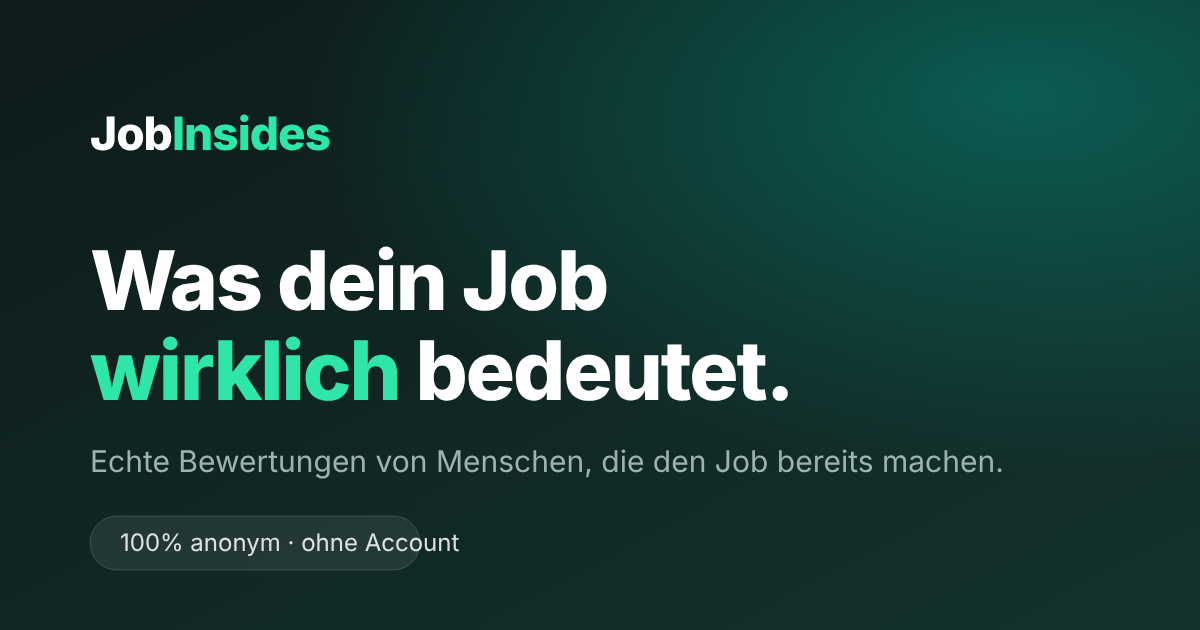
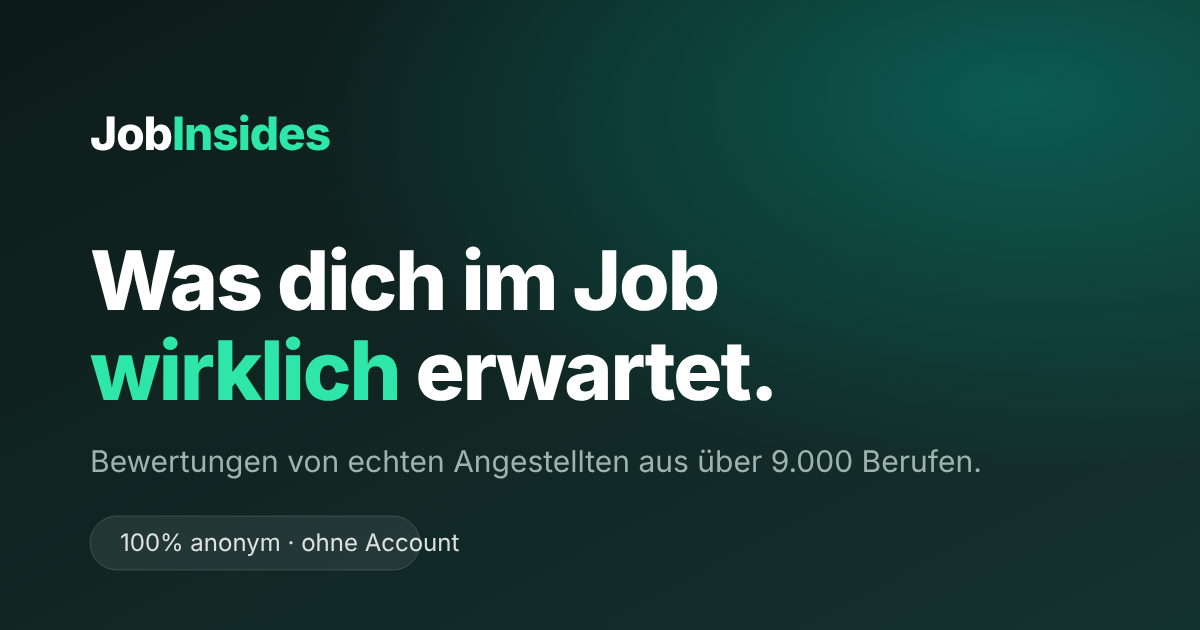
Startseite: Texte neu gefasst, Vorschaubild angepasst
Neue Hauptzeile "Was dich im Job wirklich erwartet" statt "Was dein Job wirklich bedeutet".
Texte durchgehend direkter formuliert; Herkunft der Bewertungen (echte Angestellte) deutlicher benannt.
Meta-Angaben, Vorschaubild und SEITEN_META entsprechend angeglichen.

Claude-Session: https://claude.ai/code/session_018f971TLSDixHMZUGdi4qcD

Changed region(s): [[0.2775, 0.3921, 0.6167, 0.5127], [0.3392, 0.5429, 0.6783, 0.6333], [0.0617, 0.6937, 0.8325, 0.754]]

diff --git a/index.html b/index.html
@@ -3,7 +3,7 @@
 <head>
 <meta charset="UTF-8">
 <meta name="viewport" content="width=device-width, initial-scale=1.0">
-<title>JobInsides – Echte Bewertungen. Echter Einblick.</title>
+<title>JobInsides – Was dich im Job wirklich erwartet</title>
 
 <!-- Symbol für Browser-Tab und Startbildschirm -->
 <link rel="icon" type="image/svg+xml" href="/favicon.svg">
@@ -13,7 +13,7 @@
 <!-- Beschreibung für Suchmaschinen -->
 <link rel="canonical" href="https://jobinsides.de/">
 <meta name="robots" content="index,follow">
-<meta name="description" content="Andere bewerten Arbeitgeber – wir bewerten die Arbeit. Ehrlicher Einblick in über 9.000 Berufe, von Menschen, die den Job wirklich machen. Anonym und ohne Anmeldung.">
+<meta name="description" content="Echte Bewertungen von echten Angestellten: Alltag, Gehalt und Anforderungen in über 9.000 Berufen. Andere bewerten Arbeitgeber – wir bewerten die Arbeit. Anonym und ohne Anmeldung.">
 
 <!-- Vorschau beim Teilen (WhatsApp, LinkedIn, Slack …) -->
 <meta property="og:type" content="website">
@@ -21,16 +21,16 @@
 <meta property="og:locale" content="de_DE">
 <meta property="og:url" content="https://jobinsides.de/">
 <meta property="og:title" content="JobInsides – Wir bewerten die Arbeit, nicht den Arbeitgeber">
-<meta property="og:description" content="Ehrlicher Einblick in über 9.000 Berufe – von Menschen, die den Job wirklich machen. Keine geschönten Stellenbeschreibungen.">
+<meta property="og:description" content="Bewertungen von echten Angestellten aus über 9.000 Berufen. Kein Hochglanz, keine Werbung – nur der Job, so wie er ist.">
 <meta property="og:image" content="https://jobinsides.de/og-bild.png">
 <meta property="og:image:type" content="image/png">
-<meta property="og:image:alt" content="JobInsides – Was dein Job wirklich bedeutet.">
+<meta property="og:image:alt" content="JobInsides – Was dich im Job wirklich erwartet.">
 <meta property="og:image:width" content="1200">
 <meta property="og:image:height" content="630">
 
 <meta name="twitter:card" content="summary_large_image">
 <meta name="twitter:title" content="JobInsides – Wir bewerten die Arbeit, nicht den Arbeitgeber">
-<meta name="twitter:description" content="Ehrlicher Einblick in über 9.000 Berufe, von Menschen, die den Job wirklich machen.">
+<meta name="twitter:description" content="Bewertungen von echten Angestellten aus über 9.000 Berufen. Kein Hochglanz, keine Werbung.">
 <meta name="twitter:image" content="https://jobinsides.de/og-bild.png">
 <link rel="preconnect" href="https://fonts.googleapis.com">
 <link rel="preconnect" href="https://fonts.gstatic.com" crossorigin>
@@ -57,8 +57,8 @@
 <div class="page active" id="page-home">
   <section class="hero">
     <div class="hero-badge">🔒 <strong>100% anonym</strong> · Kein Account · Keine E-Mail</div>
-    <h1>Was dein Job<br><em>wirklich</em> bedeutet.</h1>
-    <p class="hero-sub">Stellenanzeigen werben, Vorstellungsgespräche verkaufen. Hier kommen die zu Wort, die den Beruf jeden Tag ausüben.</p>
+    <h1>Was dich im Job<br><em>wirklich</em> erwartet.</h1>
+    <p class="hero-sub">Bewertungen von echten Angestellten. Kein Hochglanz, keine Werbung – nur der Job, so wie er ist.</p>
 
     <div class="search-wrap">
       <input class="search-input" type="text" placeholder="Beruf suchen, z.B. Elektriker, Pflegefachkraft…"
@@ -70,7 +70,7 @@
     <div class="hero-beleg">
       <span><strong id="stat-berufe">–</strong> Berufe</span>
       <span class="hero-beleg-trenner"></span>
-      <span>Anonym und ohne Anmeldung</span>
+      <span>Bewertet von Menschen, die sie ausüben</span>
     </div>
   </section>
 
@@ -79,8 +79,9 @@
     <p class="abschnitt-label">Warum die Bewertungen hier anders sind</p>
     <h2 class="abschnitt-titel">Andere bewerten Arbeitgeber.<br><em>Wir bewerten die Arbeit.</em></h2>
     <p class="abschnitt-text">
-      Auf dem Weg in einen Beruf verfolgt fast jeder ein eigenes Interesse. Nur eine Gruppe nicht:
-      die Menschen, die den Beruf längst ausüben. Sie haben nichts mehr zu verkaufen.
+      <strong class="abschnitt-lead">Jeder will dir was verkaufen. Außer denen, die den Job schon machen.</strong>
+      Die Anzeige will Bewerber. Das Gespräch will dich überzeugen. Das Firmenprofil will gut aussehen.
+      Nur deine künftigen Kollegen haben nichts davon, wenn du dich falsch entscheidest.
     </p>
 
     <div class="kette-lauf">
@@ -102,7 +103,7 @@
       <div class="kette-station kette-wir">
         <div class="kette-rolle">JobInsides</div>
         <div class="kette-tut">sagt, wie es ist</div>
-        <p class="kette-zitat">Hier wird keine Firma bewertet, sondern der Beruf. Niemand muss ein Profil schützen, und niemand hat etwas zu verkaufen.</p>
+        <p class="kette-zitat">Hier bewertet niemand eine Firma, sondern den Beruf. Kein Profil, das jemand schützen muss. Keine Stelle, die jemand besetzen will.</p>
       </div>
     </div>
   </section>
@@ -113,20 +114,20 @@
     <h2 class="abschnitt-titel">Die Fragen, die dir sonst niemand beantwortet</h2>
     <div class="findest-karten">
       <div class="findest-karte">
-        <div class="findest-titel">Erwartung gegen Wirklichkeit</div>
-        <p>Was haben andere von diesem Beruf erwartet, und was davon ist geblieben? Genau diese Lücke beschreiben die Berichte hier.</p>
+        <div class="findest-titel">Erwartung gegen Realität</div>
+        <p>Was andere sich vorgestellt haben – und was davon übrig blieb. Genau diese Lücke beschreiben die Berichte hier.</p>
       </div>
       <div class="findest-karte">
-        <div class="findest-titel">Echte Gehälter</div>
-        <p>Nicht die Spanne aus der Stellenanzeige, sondern die Beträge, die Menschen in diesem Beruf tatsächlich bekommen – freiwillig und anonym angegeben.</p>
+        <div class="findest-titel">Gehälter, die stimmen</div>
+        <p>Keine Spanne aus der Anzeige. Was Leute in dem Job am Monatsende wirklich bekommen, von ihnen selbst eingetragen.</p>
       </div>
       <div class="findest-karte">
-        <div class="findest-titel">Was der Beruf im Alltag verlangt</div>
-        <p>Schichtdienst, Zeitdruck, Arbeit auf sich allein gestellt: die Dinge, die in keiner Anzeige stehen, den Alltag aber bestimmen.</p>
+        <div class="findest-titel">Was der Alltag von dir will</div>
+        <p>Schichten, Zeitdruck, stundenlang allein im Auto. Steht in keiner Anzeige, entscheidet aber, ob du den Job magst.</p>
       </div>
       <div class="findest-karte">
-        <div class="findest-titel">Passende Stellen – danach</div>
-        <p>Zuerst verstehst du den Beruf. Passt er zu dir, findest du hier auch gleich die offenen Stellen dazu.</p>
+        <div class="findest-titel">Und danach: offene Stellen</div>
+        <p>Erst verstehst du den Beruf. Passt er, findest du die Ausschreibungen gleich daneben.</p>
       </div>
     </div>
   </section>
@@ -136,10 +137,10 @@
     <p class="abschnitt-label">Für wen das gedacht ist</p>
     <h2 class="abschnitt-titel">Für alle, die eine Entscheidung vor sich haben</h2>
     <div class="fuerwen-liste">
-      <div class="fuerwen-eintrag"><strong>Schulabgänger</strong>, die zwischen mehreren Berufen schwanken und nirgends erfahren, wie der Alltag darin aussieht.</div>
-      <div class="fuerwen-eintrag"><strong>Studierende</strong>, die sich fragen, ob ihr Fach am Ende zu dem Beruf führt, den sie sich vorstellen.</div>
-      <div class="fuerwen-eintrag"><strong>Berufswechsler</strong>, die vor dem zweiten Anlauf genauer wissen wollen, worauf sie sich einlassen.</div>
-      <div class="fuerwen-eintrag"><strong>Umschüler und Wiedereinsteiger</strong>, die viel Zeit in eine neue Richtung stecken und vorher Klarheit darüber brauchen, ob sie stimmt.</div>
+      <div class="fuerwen-eintrag"><strong>Schulabgänger</strong>, die zwischen drei Berufen hängen und nirgends erfahren, wie der Alltag darin aussieht.</div>
+      <div class="fuerwen-eintrag"><strong>Studierende</strong>, die sich fragen, wo ihr Fach am Ende eigentlich hinführt.</div>
+      <div class="fuerwen-eintrag"><strong>Berufswechsler</strong>, die vor dem zweiten Anlauf wissen wollen, worauf sie sich einlassen.</div>
+      <div class="fuerwen-eintrag"><strong>Umschüler und Wiedereinsteiger</strong>, die Monate in eine neue Richtung stecken und vorher sicher sein wollen, dass sie stimmt.</div>
     </div>
   </section>
 
@@ -151,21 +152,21 @@
         <span class="ablauf-nr">1</span>
         <div>
           <div class="ablauf-titel">Beruf suchen</div>
-          <p>Über 9.000 Berufe, von der Ausbildung bis zum Studium. Die Suche versteht auch die Bezeichnungen, die im Alltag benutzt werden.</p>
+          <p>Über 9.000 Berufe, von der Ausbildung bis zum Studium. Tipp einfach ein, wie du den Job nennst – die Suche versteht auch Umgangssprache.</p>
         </div>
       </div>
       <div class="ablauf-schritt">
         <span class="ablauf-nr">2</span>
         <div>
           <div class="ablauf-titel">Nachlesen, wie es ist</div>
-          <p>Erfahrungsberichte, Gehälter, Anforderungen und Diskussionen – alles von Menschen, die den Beruf aus eigener Anschauung kennen.</p>
+          <p>Erfahrungsberichte, Gehälter, Anforderungen, Diskussionen. Alles von Angestellten, die den Beruf selbst ausüben oder ausgeübt haben.</p>
         </div>
       </div>
       <div class="ablauf-schritt">
         <span class="ablauf-nr">3</span>
         <div>
           <div class="ablauf-titel">Entscheiden – und Stellen finden</div>
-          <p>Passt der Beruf, findest du hier aktuelle Stellenangebote. Passt er nicht, hast du dir womöglich Jahre erspart.</p>
+          <p>Passt der Beruf, liegen die offenen Stellen schon daneben. Passt er nicht, hast du dir gerade Jahre erspart.</p>
         </div>
       </div>
     </div>
@@ -181,8 +182,8 @@
   <!-- ══ AUFRUF ══ -->
   <section class="aufruf">
     <div class="aufruf-box">
-      <h2 class="aufruf-titel">Du übst einen Beruf aus?<br>Dann weißt du etwas, das anderen gerade fehlt.</h2>
-      <p class="aufruf-text">Fünf Minuten, anonym, ohne Anmeldung. Deine Erfahrung bewahrt jemanden vor dem falschen Weg – oder bestätigt ihm den richtigen.</p>
+      <h2 class="aufruf-titel">Du machst den Job?<br>Dann weiß niemand besser, wie er ist.</h2>
+      <p class="aufruf-text">Fünf Minuten, anonym, ohne Anmeldung. Irgendwo sitzt gerade jemand, der überlegt, ob er deinen Beruf lernen soll. Du kannst ihm die Antwort geben, die du damals gern gehabt hättest.</p>
       <button class="btn-submit" style="max-width:340px" onclick="showPage('bewerten')">Beruf bewerten</button>
       <span class="anon-note">Ohne E-Mail, ohne Konto, ohne Namensnennung.</span>
     </div>

diff --git a/app.js b/app.js
@@ -918,8 +918,8 @@ function setzeMeta({ titel, beschreibung, pfad, index = true, jsonld = null }) {
 
 const SEITEN_META = {
   home: {
-    titel: 'JobInsides – Wir bewerten die Arbeit, nicht den Arbeitgeber',
-    beschreibung: 'Andere bewerten Arbeitgeber – wir bewerten die Arbeit. Ehrlicher Einblick in über 9.000 Berufe, von Menschen, die den Job wirklich machen. Anonym und ohne Anmeldung.'
+    titel: 'JobInsides – Was dich im Job wirklich erwartet',
+    beschreibung: 'Echte Bewertungen von echten Angestellten: Alltag, Gehalt und Anforderungen in über 9.000 Berufen. Andere bewerten Arbeitgeber – wir bewerten die Arbeit. Anonym und ohne Anmeldung.'
   },
   bewerten: {
     titel: 'Beruf ehrlich bewerten – anonym | JobInsides',

diff --git a/styles.css b/styles.css
@@ -156,6 +156,14 @@ h1 em { color: var(--accent); font-style: normal; }
 }
 .abschnitt-titel em { color: var(--accent); font-style: normal; }
 .abschnitt-text { max-width: 640px; color: var(--muted); font-size: 1.08rem; line-height: 1.65; }
+/* Fettgesetzter Einstieg in einen Absatz – trägt die Kernaussage */
+.abschnitt-lead {
+  display: block; margin-bottom: .6rem;
+  color: var(--ink); font-weight: 700;
+  font-family: 'Bricolage Grotesque', sans-serif;
+  font-size: 1.22rem; line-height: 1.4;
+}
+@media (max-width: 640px) { .abschnitt-lead { font-size: 1.1rem; } }
 
 /* ── Die Kette ── */
 .kette { max-width: 1120px; margin: 0 auto; padding: 5.5rem 6vw 4rem; }
